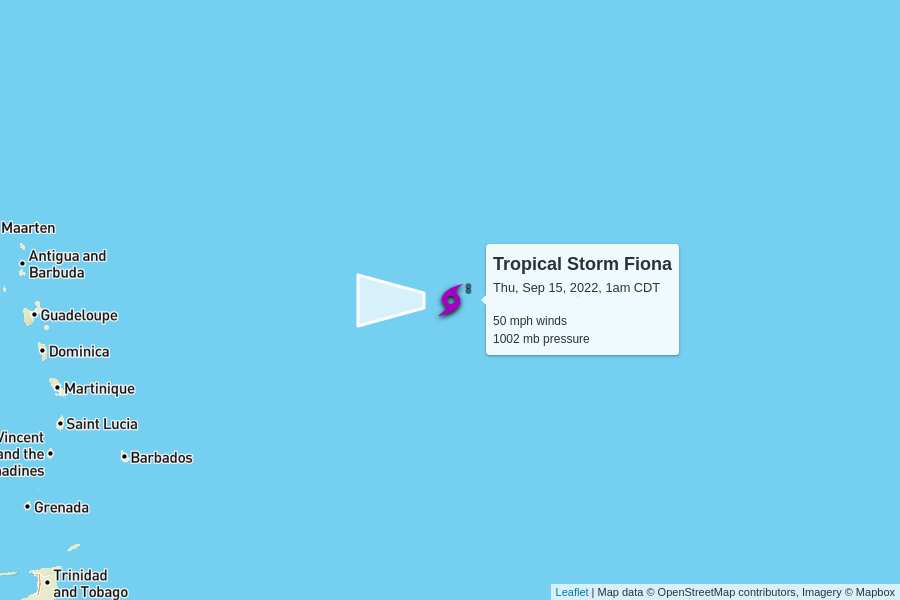
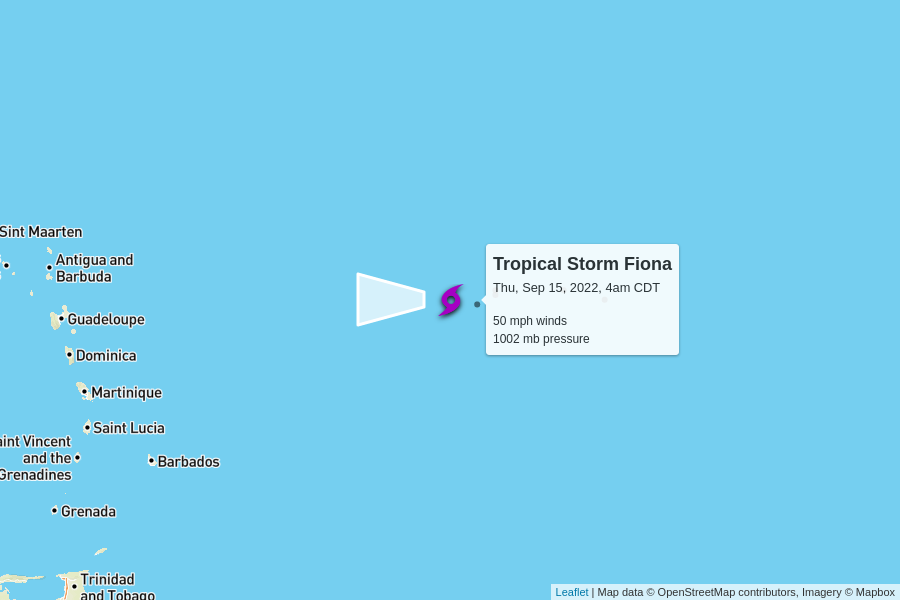
automatic update

diff --git a/docs/index.html b/docs/index.html
@@ -100,7 +100,7 @@
         <td colspan="6" class="storm category-0" >
           <h2>
             Tropical Storm Fiona
-            <p class="updated">last updated <span data-time>2022-09-15T06:00:00.000Z</span></p>
+            <p class="updated">last updated <span data-time>2022-09-15T09:00:00.000Z</span></p>
           </h2>
         </td>
       </tr>
@@ -118,7 +118,7 @@
         <td>50 mph</td>
         <td>1002 mb</td>
         <td>
-          14 mph to the west
+          13 mph to the west
           <br/>
           <span style="display: inline-block; font-size: 1.5em; transform: rotate(270deg);">↑</span>
         </td>
